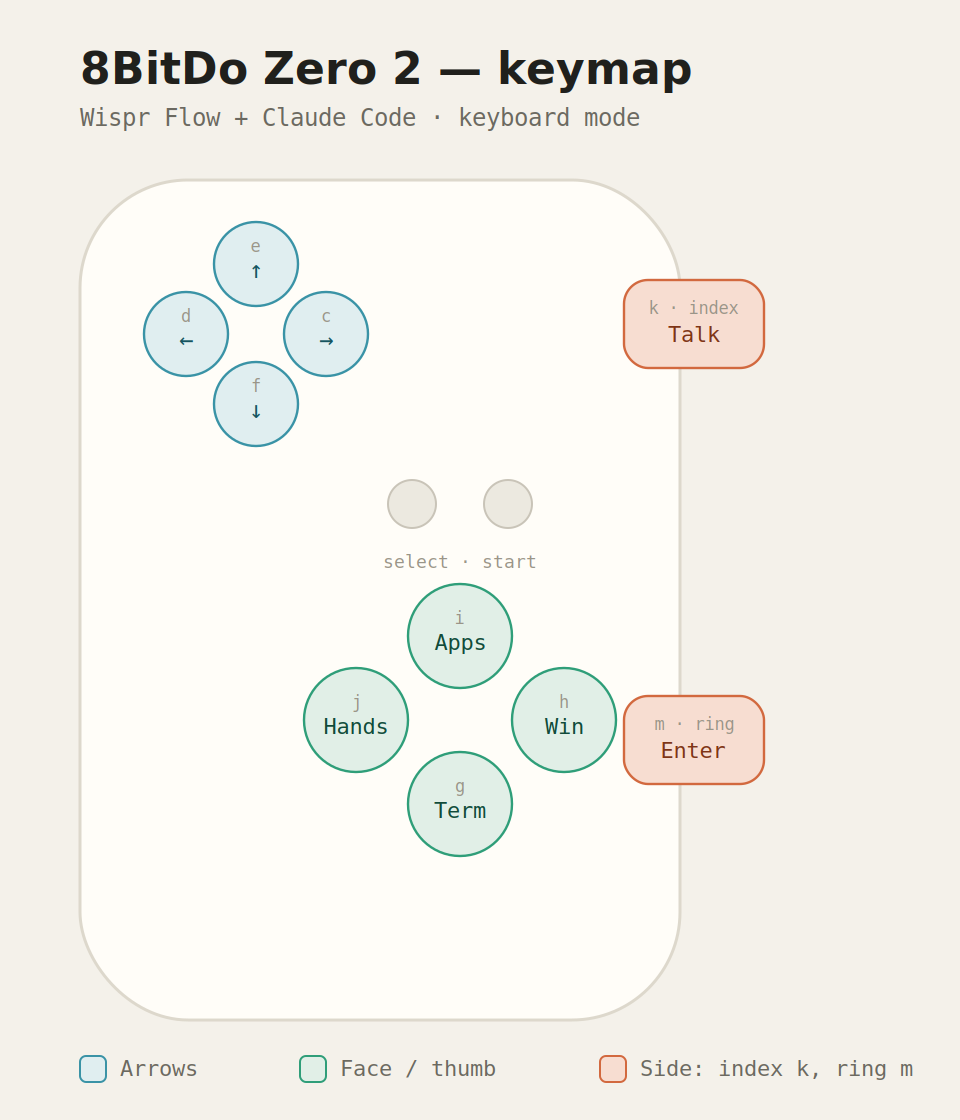
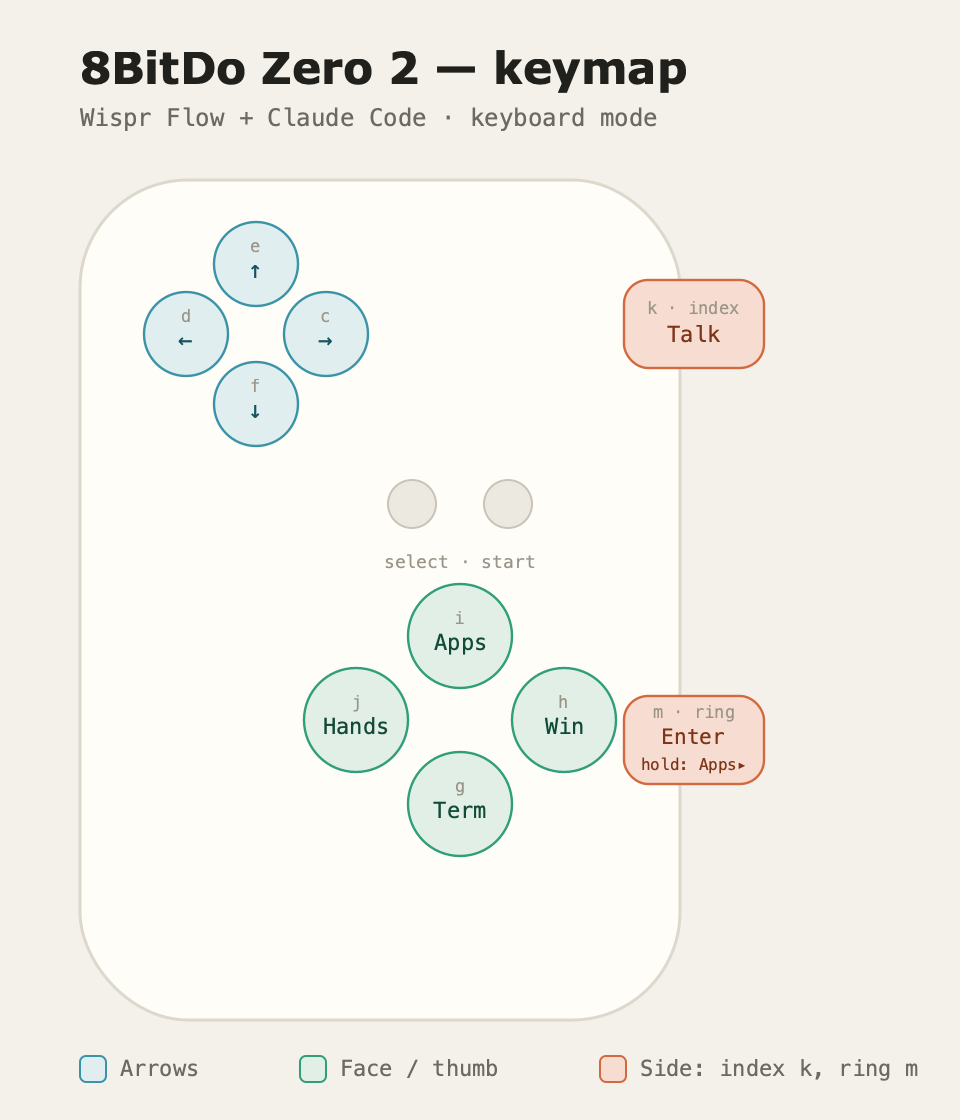
m = Enter (tap) / app-switcher layer (hold); fix modifier matching
- New enter_app_layer function: to_if_alone Enter + lazy-Cmd layer on hold,
  now the default for m — ring finger holds, thumb walks the D-pad through
  the Cmd+Tab switcher (a tap-to-latch switcher is impossible: macOS commits
  the moment Cmd releases)
- Add modifiers:{optional:[any]} to every from: Karabiner counts its own
  rule-held output modifiers, so without it the gated Tab never matched
  inside the layer and arrows leaked raw letters during push-to-talk
- Regenerate shipped 8bitdo-zero2.json, diagram (SVG+PNG), README, CLAUDE.md

diff --git a/zero2-keymapper.html b/zero2-keymapper.html
@@ -213,9 +213,11 @@ const FUNCS={
   launch_term:{label:'Launch / focus terminal',tag:'Term'},
   cycle_win:{label:'Cycle terminal windows',tag:'Win'},
   cycle_apps:{label:'Cycle apps (Cmd+Tab)',tag:'Apps'},
-  app_layer:{label:'App-switcher layer (hold)',tag:'Apps\u25B8'}
+  app_layer:{label:'App-switcher layer (hold)',tag:'Apps\u25B8'},
+  enter_app_layer:{label:'Enter (tap) / app switcher (hold)',tag:'Enter\u00B7Apps'}
 };
-const DEFAULTS={e:'up',f:'down',d:'left',c:'right',i:'cycle_apps',j:'handsfree',h:'cycle_win',g:'launch_term',k:'ptt',m:'enter'};
+const LAYER_FNS=['app_layer','enter_app_layer'];
+const DEFAULTS={e:'up',f:'down',d:'left',c:'right',i:'cycle_apps',j:'handsfree',h:'cycle_win',g:'launch_term',k:'ptt',m:'enter_app_layer'};
 
 const state={vendor:'11720',product:'36888',terminal:'Terminal',launchCmd:'',map:Object.assign({},DEFAULTS)};
 
@@ -238,6 +240,9 @@ function buildMapping(){
 
 function intOr(v,d){const n=parseInt(v,10);return Number.isFinite(n)?n:d;}
 function devCond(){return{type:'device_if',identifiers:[{vendor_id:intOr(state.vendor,11720),product_id:intOr(state.product,36888)}]};}
+// optional:any — without it Karabiner only matches when NO modifiers are active,
+// which breaks every button while a rule-held modifier (lazy Cmd layer, Ctrl+Opt PTT) is down.
+function fromKey(k){return{key_code:k,modifiers:{optional:['any']}};}
 
 function launchShell(){
   const app=state.terminal;const cmd=state.launchCmd.trim();
@@ -267,25 +272,27 @@ function toEvents(fn){
 
 function buildConfig(){
   const dev=devCond();const manips=[];
-  const layerKey=BUTTONS.map(b=>b.id).find(id=>state.map[id]==='app_layer');
+  const layerKey=BUTTONS.map(b=>b.id).find(id=>LAYER_FNS.includes(state.map[id]));
   if(layerKey){
     const rightKey=BUTTONS.map(b=>b.id).find(id=>state.map[id]==='right');
     const leftKey=BUTTONS.map(b=>b.id).find(id=>state.map[id]==='left');
-    if(rightKey)manips.push({type:'basic',from:{key_code:rightKey},to:[{key_code:'tab'}],conditions:[{type:'variable_if',name:'zero2_app_switcher',value:1},dev]});
-    if(leftKey)manips.push({type:'basic',from:{key_code:leftKey},to:[{key_code:'tab',modifiers:['left_shift']}],conditions:[{type:'variable_if',name:'zero2_app_switcher',value:1},dev]});
+    if(rightKey)manips.push({type:'basic',from:fromKey(rightKey),to:[{key_code:'tab'}],conditions:[{type:'variable_if',name:'zero2_app_switcher',value:1},dev]});
+    if(leftKey)manips.push({type:'basic',from:fromKey(leftKey),to:[{key_code:'tab',modifiers:['left_shift']}],conditions:[{type:'variable_if',name:'zero2_app_switcher',value:1},dev]});
   }
   for(const b of BUTTONS){
     const fn=state.map[b.id];
     if(!fn||fn==='none')continue;
-    if(fn==='app_layer'){
-      manips.push({type:'basic',from:{key_code:b.id},
+    if(LAYER_FNS.includes(fn)){
+      const manip={type:'basic',from:fromKey(b.id),
         to:[{set_variable:{name:'zero2_app_switcher',value:1}},{key_code:'left_command',lazy:true}],
         to_after_key_up:[{set_variable:{name:'zero2_app_switcher',value:0}}],
-        conditions:[dev]});
+        conditions:[dev]};
+      if(fn==='enter_app_layer')manip.to_if_alone=[{key_code:'return_or_enter'}];
+      manips.push(manip);
       continue;
     }
     const ev=toEvents(fn);
-    if(ev)manips.push({type:'basic',from:{key_code:b.id},to:ev,conditions:[dev]});
+    if(ev)manips.push({type:'basic',from:fromKey(b.id),to:ev,conditions:[dev]});
   }
   return{title:'8BitDo Zero 2 \u2014 '+state.terminal+' \u2014 Wispr Flow + Claude Code',
     rules:[{description:'8BitDo Zero 2 keymap ('+state.terminal+')',manipulators:manips}]};
@@ -300,8 +307,8 @@ function updateDiagram(){
 function updateWarn(){
   const counts={};
   for(const b of BUTTONS){const f=state.map[b.id];if(f==='none')continue;counts[f]=(counts[f]||0)+1;}
-  const dupes=Object.keys(counts).filter(f=>counts[f]>1&&f!=='app_layer').map(f=>FUNCS[f].tag);
-  const layers=BUTTONS.filter(b=>state.map[b.id]==='app_layer').length;
+  const dupes=Object.keys(counts).filter(f=>counts[f]>1&&!LAYER_FNS.includes(f)).map(f=>FUNCS[f].tag);
+  const layers=BUTTONS.filter(b=>LAYER_FNS.includes(state.map[b.id])).length;
   let msg='';
   if(dupes.length)msg='Assigned more than once: '+dupes.join(', ');
   if(layers>1)msg=(msg?msg+' · ':'')+'Only one app-switcher layer is supported';

diff --git a/README.md b/README.md
@@ -16,7 +16,7 @@ It works by running the Zero 2 in its **keyboard mode**, where each button sends
 - **Tap to submit** — Enter on the ring-finger trigger, so dictate-then-send never leaves your trigger fingers
 - **Arrow keys** on the D-pad for navigating Claude Code and menus
 - **Launch / focus your terminal**, **cycle terminal windows**, and **cycle apps** on the face buttons
-- An optional **app-switcher layer** for stepping through every open app
+- An **app-switcher layer** on the same ring-finger trigger — hold it and the D-pad steps through every open app
 
 ## You'll need
 
@@ -74,14 +74,14 @@ This imports the default layout. Its `vendor_id` / `product_id` are preset for t
 | Button | Key it sends | Function |
 | --- | --- | --- |
 | D-pad up / down / left / right | `e` `f` `d` `c` | Arrow keys |
-| `m` — lower side (ring) | `m` | **Enter** |
+| `m` — lower side (ring) | `m` | **Enter** (tap) · **app-switcher layer** (hold) |
 | `k` — upper side (index) | `k` | **Push-to-talk** (Ctrl + Opt, held) |
 | `j` — left face | `j` | **Hands-free** toggle (Fn + Space) |
 | `g` — bottom face | `g` | Launch / focus terminal |
 | `h` — right face | `h` | Cycle terminal windows (⌘ + `` ` ``) |
 | `i` — top face | `i` | Cycle apps (⌘ + Tab) |
 
-The two side buttons sit under your index and ring fingers, so the core loop — **hold `k` to dictate, tap `m` to send** — happens entirely on your triggers while your thumb stays on the D-pad.
+The two side buttons sit under your index and ring fingers, so the core loop — **hold `k` to dictate, tap `m` to send** — happens entirely on your triggers while your thumb stays on the D-pad. And because the triggers are fingers, not thumb, **holding `m` while working the D-pad** is the one comfortable two-button chord — which is exactly where the app-switcher layer lives.
 
 ## Wispr Flow shortcuts
 
@@ -92,9 +92,17 @@ Set these in Wispr Flow → Settings → General → Shortcuts so they match the
 
 If Fn behaves oddly (macOS treats it specially), rebind hands-free to something plain like `⌘⇧Space` in Wispr and update the `j` mapping to match.
 
-## App-switcher layer (optional)
+## App-switcher layer
 
-Assign any button to **App-switcher layer (hold)** in the keymapper. While you hold it, Command stays down and your D-pad **left/right** become Shift+Tab / Tab, so you can step through every open app and release to select — real cycling, not just the two-app toggle a single ⌘Tab gives you. It's implemented with a Karabiner variable that flips while the button is held.
+**Hold `m`** (instead of tapping it for Enter) and Command is held for you — lazily, so nothing fires until you press something else. While holding, D-pad **left/right** become Shift+Tab / Tab: the ⌘Tab switcher comes up, *stays* up, and you step through every open app. **Release `m` to land on the selected one** — real cycling, not the two-app toggle a single ⌘Tab tap gives you. (Up/down still send arrows, so ↓ opens Exposé on the highlighted app, just like on a keyboard.)
+
+Why it's on `m`: the switcher only stays open while ⌘ is physically held — macOS commits the moment it's released, so a tap-to-latch version isn't possible. The hold has to live on a button your fingers can keep down *while* your thumb works the D-pad, and that's the ring-finger trigger.
+
+Details:
+
+- A quick tap of `m` is still plain **Enter** — the layer only engages while held (Karabiner's `to_if_alone`).
+- Holding `m` for over a second without touching the D-pad does nothing — no stray Enter on release.
+- In the keymapper you can move the layer to any button, with (**Enter (tap) / app switcher (hold)**) or without (**App-switcher layer (hold)**) the Enter tap.
 
 ---
 
@@ -108,7 +116,8 @@ Assign any button to **App-switcher layer (hold)** in the keymapper. While you h
 
 ## Caveats
 
-- A single ⌘Tab tap only toggles the two most-recent apps — use the app-switcher layer for true cycling.
+- A single ⌘Tab tap (`i`) only toggles the two most-recent apps — hold `m` and use the D-pad for true cycling.
+- Holding `m` no longer key-repeats Enter (the hold is the app-switcher layer now).
 - The Zero 2 has ~8 usable inputs, so budget buttons carefully.
 - The micro-USB port is for charging and firmware only; pairing is Bluetooth.
 

diff --git a/CLAUDE.md b/CLAUDE.md
@@ -51,11 +51,11 @@ macOS pops the Keyboard Setup Assistant on pair; dismiss it (it's a real keyboar
 |-----|----------|
 | e/f/d/c | arrows up/down/left/right |
 | k (index, hold) | Ctrl+Opt → Wispr push-to-talk |
-| m (ring) | Return |
+| m (ring) | tap = Return · hold = app-switcher layer (Cmd held, D-pad ⇄ apps) |
 | j | Fn+Space → Wispr hands-free toggle |
 | g | `open -a Terminal` |
 | h | Cmd+\` → cycle terminal windows |
-| i | Cmd+Tab → cycle apps |
+| i | Cmd+Tab → cycle apps (two-app toggle; true cycling = hold m) |
 
 Wispr Flow shortcuts must match: push-to-talk = **Ctrl+Opt**, hands-free = **Fn+Space**.
 
@@ -66,16 +66,25 @@ Wispr Flow shortcuts must match: push-to-talk = **Ctrl+Opt**, hands-free = **Fn+
 - `buildConfig()` emits one Karabiner rule. `toEvents(fn)` maps a function id → `to` events.
   `launchShell()` builds the terminal-launch command (`open -a`, or an osascript do-script /
   iTerm variant when `launchCmd` is set).
-- **App-switcher layer**: assigning a button to `app_layer` holds Cmd lazily + sets variable
-  `zero2_app_switcher`; the D-pad left/right buttons get variable-gated Shift+Tab/Tab manipulators
-  emitted BEFORE the normal arrow ones (Karabiner = first-match-wins).
+- **App-switcher layer**: two layer functions — `app_layer` (hold only) and `enter_app_layer`
+  (default on m; adds `to_if_alone` = Return, so tap = Enter, hold = layer). Both hold Cmd lazily +
+  set variable `zero2_app_switcher`; the D-pad left/right buttons get variable-gated Shift+Tab/Tab
+  manipulators emitted BEFORE the normal arrow ones (Karabiner = first-match-wins). A tap-to-latch
+  switcher is impossible: macOS commits the instant Cmd releases, so the layer must sit on a
+  finger-held button (m/ring) while the thumb works the D-pad.
+- **Every `from` carries `modifiers:{optional:['any']}`** (`fromKey()`): Karabiner counts its own
+  rule-held output modifiers (lazy Cmd, PTT's Ctrl+Opt) toward from-matching, and a `from` without
+  `modifiers` only matches when none are active — omitting it breaks every button mid-layer/mid-PTT.
 - Live SVG diagram updates label text nodes by id `t-<buttonid>`.
 - `openImport()` navigates to the `karabiner://` link; `copyImport()` copies it.
 
 ## Conventions / constraints
 - Keep everything **dependency-free and self-contained** — it has to run from static GitHub Pages.
 - README embeds **PNG**, not SVG (GitHub renders SVG inconsistently). Regenerate the PNG from the SVG:
-  `pip install cairosvg --break-system-packages && python3 -c "import cairosvg;cairosvg.svg2png(url='zero2-keymap.svg',write_to='zero2-keymap.png',output_width=960,output_height=1120)"`
+  `/opt/homebrew/bin/python3.13 -c "import cairosvg;cairosvg.svg2png(url='zero2-keymap.svg',write_to='zero2-keymap.png',output_width=960,output_height=1120)"`
+  (must be **homebrew** python — system python can't load homebrew's libcairo under SIP). The SVG
+  font stacks list **Menlo/Verdana first**: cairosvg doesn't fall through a missing first family,
+  and DejaVu isn't installed on this machine — DejaVu-first renders tofu for ↑↓←→▸.
 - The import-link URL param is **percent-encoded**.
 - License: MIT (stated in README; no `LICENSE` file yet).
 
